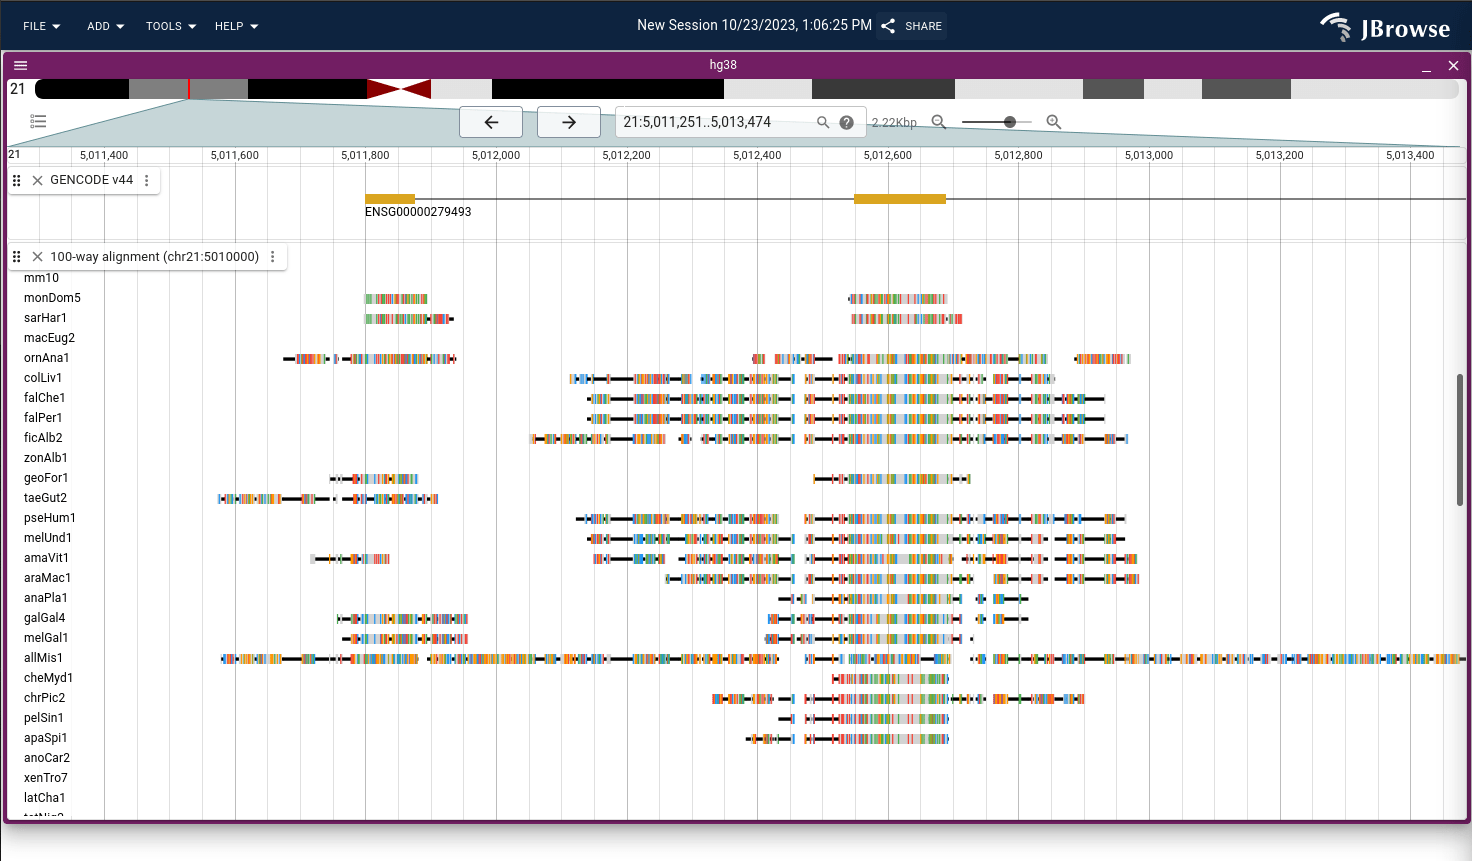
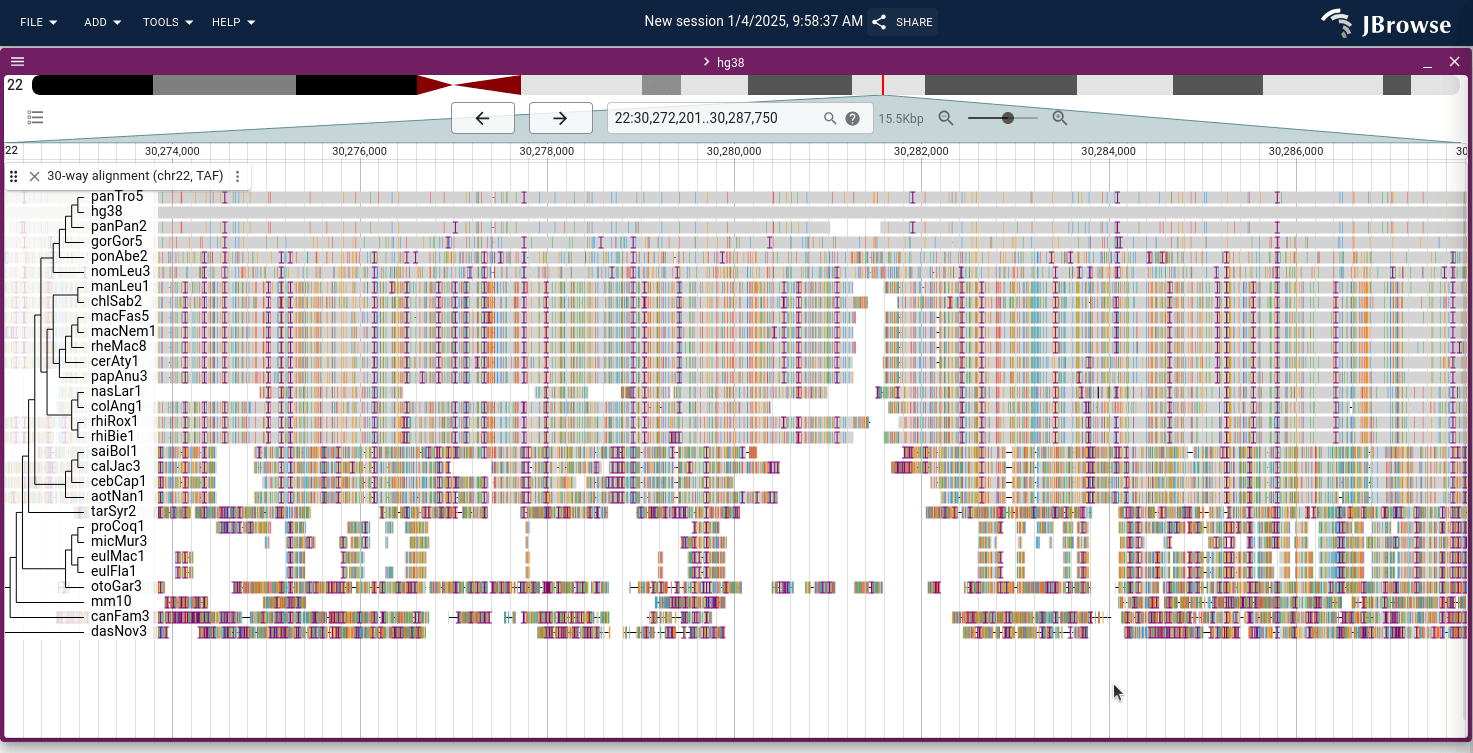
Add taf to the workflow

diff --git a/src/MafAddTrackWorkflow/AddTrackWorkflow.tsx b/src/MafAddTrackWorkflow/AddTrackWorkflow.tsx
@@ -36,15 +36,24 @@ const useStyles = makeStyles()(theme => ({
   },
 }))
 
+type AdapterTypeOptions =
+  | 'BigMafAdapter'
+  | 'MafTabixAdapter'
+  | 'BgzipTaffyAdapter'
+type IndexTypeOptions = 'TBI' | 'CSI'
+
 export default function MultiMAFWidget({ model }: { model: AddTrackModel }) {
   const { classes } = useStyles()
   const [samples, setSamples] = useState('')
   const [loc, setLoc] = useState<FileLocation>()
   const [indexLoc, setIndexLoc] = useState<FileLocation>()
+  const [nhLoc, setNhLoc] = useState<FileLocation>()
   const [error, setError] = useState<unknown>()
   const [trackName, setTrackName] = useState('MAF track')
-  const [fileTypeChoice, setFileTypeChoice] = useState('BigMafAdapter')
-  const [indexTypeChoice, setIndexTypeChoice] = useState('TBI')
+  const [fileTypeChoice, setFileTypeChoice] =
+    useState<AdapterTypeOptions>('BigMafAdapter')
+  const [indexTypeChoice, setIndexTypeChoice] =
+    useState<IndexTypeOptions>('TBI')
 
   const rootModel = getRoot<any>(model)
   return (
@@ -56,21 +65,19 @@ export default function MultiMAFWidget({ model }: { model: AddTrackModel }) {
           <RadioGroup
             value={fileTypeChoice}
             onChange={event => {
-              setFileTypeChoice(event.target.value)
+              setFileTypeChoice(event.target.value as AdapterTypeOptions)
             }}
           >
-            <FormControlLabel
-              value="BigMafAdapter"
-              control={<Radio />}
-              checked={fileTypeChoice === 'BigMafAdapter'}
-              label="bigMaf"
-            />
-            <FormControlLabel
-              value="MafTabixAdapter"
-              control={<Radio />}
-              checked={fileTypeChoice === 'MafTabixAdapter'}
-              label="mafTabix"
-            />
+            {['BigMafAdapter', 'MafTabixAdapter', 'BgzipTaffyAdapter'].map(
+              r => (
+                <FormControlLabel
+                  value={r}
+                  control={<Radio />}
+                  checked={fileTypeChoice === r}
+                  label={r}
+                />
+              ),
+            )}
           </RadioGroup>
         </FormControl>
         {fileTypeChoice === 'BigMafAdapter' ? (
@@ -82,62 +89,88 @@ export default function MultiMAFWidget({ model }: { model: AddTrackModel }) {
               setLoc(arg)
             }}
           />
-        ) : (
+        ) : fileTypeChoice === 'MafTabixAdapter' ? (
           <>
             <FormControl>
               <FormLabel>Index type</FormLabel>
               <RadioGroup
                 value={fileTypeChoice}
                 onChange={event => {
-                  setIndexTypeChoice(event.target.value)
+                  setIndexTypeChoice(event.target.value as IndexTypeOptions)
                 }}
               >
-                <FormControlLabel
-                  value="TBI"
-                  control={<Radio />}
-                  checked={indexTypeChoice === 'TBI'}
-                  label="TBI"
-                />
-                <FormControlLabel
-                  value="CSI"
-                  control={<Radio />}
-                  checked={indexTypeChoice === 'CSI'}
-                  label="CSI"
-                />
+                {['TBI', 'CSI'].map(r => (
+                  <FormControlLabel
+                    value={r}
+                    control={<Radio />}
+                    checked={fileTypeChoice === r}
+                    label={r}
+                  />
+                ))}
               </RadioGroup>
             </FormControl>
             <FileSelector
               location={loc}
               name="Path to MAF tabix"
+              rootModel={rootModel}
               setLocation={arg => {
                 setLoc(arg)
               }}
-              rootModel={rootModel}
             />
             <FileSelector
               location={indexLoc}
               name="Path to MAF tabix index"
+              rootModel={rootModel}
               setLocation={arg => {
                 setIndexLoc(arg)
               }}
+            />
+          </>
+        ) : (
+          <>
+            <FileSelector
+              location={loc}
+              name="Path to TAF.gz (Bgzipped TAF)"
               rootModel={rootModel}
+              setLocation={arg => {
+                setLoc(arg)
+              }}
+            />
+            <FileSelector
+              location={indexLoc}
+              name="Path to TAF.gz.tai (TAF index)"
+              rootModel={rootModel}
+              setLocation={arg => {
+                setIndexLoc(arg)
+              }}
             />
           </>
         )}
       </Paper>
-      <TextField
-        multiline
-        rows={10}
-        value={samples}
-        onChange={event => {
-          setSamples(event.target.value)
-        }}
-        placeholder={
-          'Enter sample names from the MAF file, one per line, or JSON formatted array of samples'
-        }
-        variant="outlined"
-        fullWidth
-      />
+      <div>
+        <FileSelector
+          location={nhLoc}
+          name="Path to newick tree (.nh)"
+          rootModel={rootModel}
+          setLocation={arg => {
+            setNhLoc(arg)
+          }}
+        />
+        <TextField
+          multiline
+          rows={10}
+          value={samples}
+          onChange={event => {
+            setSamples(event.target.value)
+          }}
+          helperText="Sample names (optional if .nh supplied, required if not)"
+          placeholder={
+            'Enter sample names from the MAF file, one per line, or JSON formatted array of samples'
+          }
+          variant="outlined"
+          fullWidth
+        />
+      </div>
 
       <TextField
         value={trackName}
@@ -173,19 +206,29 @@ export default function MultiMAFWidget({ model }: { model: AddTrackModel }) {
                 adapter:
                   fileTypeChoice === 'BigMafAdapter'
                     ? {
-                      type: fileTypeChoice,
-                      bigBedLocation: loc,
-                      samples: sampleNames,
-                    }
-                    : {
-                      type: fileTypeChoice,
-                      bedGzLocation: loc,
-                      index: {
-                        indexType: indexTypeChoice,
-                        location: indexLoc,
-                      },
-                      samples: sampleNames,
-                    },
+                        type: fileTypeChoice,
+                        bigBedLocation: loc,
+                        samples: sampleNames,
+                        nhLocation: nhLoc,
+                      }
+                    : fileTypeChoice === 'MafTabixAdapter'
+                      ? {
+                          type: fileTypeChoice,
+                          bedGzLocation: loc,
+                          nhLocation: nhLoc,
+                          index: {
+                            indexType: indexTypeChoice,
+                            location: indexLoc,
+                          },
+                          samples: sampleNames,
+                        }
+                      : {
+                          type: fileTypeChoice,
+                          tafGzLocation: loc,
+                          taiLocation: indexLoc,
+                          nhLocation: nhLoc,
+                          samples: sampleNames,
+                        },
               })
 
               model.view?.showTrack(trackId)

diff --git a/src/BigMafAdapter/configSchema.ts b/src/BigMafAdapter/configSchema.ts
@@ -27,6 +27,17 @@ const configSchema = ConfigurationSchema(
         locationType: 'UriLocation',
       },
     },
+    /**
+     * #slot
+     */
+    nhLocation: {
+      type: 'fileLocation',
+      description: 'newick tree',
+      defaultValue: {
+        uri: '/path/to/my.nh',
+        locationType: 'UriLocation',
+      },
+    },
   },
   { explicitlyTyped: true },
 )

diff --git a/README.md b/README.md
@@ -153,30 +153,24 @@ the case
 
 ## Prepare data
 
-This is the same as the jbrowse 1 mafviewer plugin (currently the similar to
-the). This plugin supports two formats
-
 1. BigMaf format, which can be created following UCSC guidelines
+   (https://genome.ucsc.edu/FAQ/FAQformat.html#format9.3)
 
 2. MAF tabix based format, based on a custom BED created via conversion tools in
-   this repo.
+   this repo (see maf2bed)
 
-The choice between the two is your convenience. BigMaf is a "standard" UCSC
-format, basically just a specialized BigBed, so it requires JBrowse 1.14.0 or
-newer for it's BigBed support. The custom BED format only requires JBrowse
-1.12.3 or newer, so therefore some slightly older JBrowse versions can support
-it.
+3. TAF format (new!). Currently only supports bgzip'd TAF. This is pioneered by
+   https://github.com/ComparativeGenomicsToolkit/taffy
 
-_Note: Both formats start with a MAF as input, and note that your MAF file
-should contain the species name and chromosome name e.g. hg38.chr1 in the
+_Note: All these formats generally start with a MAF as input. Note that your MAF
+file should contain the species name and chromosome name e.g. hg38.chr1 in the
 sequence identifiers._
 
-### Preparing BigMaf
+### Option 1. Preparing BigMaf
 
 Follow instructions from https://genome.ucsc.edu/FAQ/FAQformat.html#format9.3
-and set the storeType of your track as MAFViewer/Store/SeqFeature/BigMaf
 
-### Preparing the tabix BED format
+### Option 2. Preparing MAF tabix
 
 Start by converting the MAF into a pseudo-BED format using the maf2bed tool
 
@@ -191,7 +185,8 @@ The second argument to maf2bed is the genome version e.g. hg38 used for the main
 species in the MAF (if your MAF comes from a pipeline like Ensembl or UCSC, the
 identifiers in the MAF file will say something like hg38.chr1, therefore, the
 argument to maf2bed should just be hg38 to remove hg38 part of the identifier.
-if your MAF file does not include the species name as part of the identifier,
+
+If your MAF file does not include the species name as part of the identifier,
 you should add the species into them the those scaffold/chromosome e.g. create
 hg38.chr1 if it was just chr1 before)
 
@@ -200,7 +195,19 @@ If all is well, your BED file should have 6 columns, with
 separated between each species by `;` and each field in the alignment is
 separated by `:`.
 
-### Footnote
+Note: If you can't use the `cargo install maf2bed` binary, there is a
+`bin/maf2bed.pl` perl version of it in this repo
 
-If you can't use the `cargo install maf2bed` binary, there is a `bin/maf2bed.pl`
-perl version of it in this repo
+### Option 3. Preparing TAF
+
+Follow steps from https://github.com/ComparativeGenomicsToolkit/taffy
+
+```
+taffy view -i chr22.maf -o chr22.taf
+bgzip chr22.taf
+taffy index -i chr22.taf.gz
+```
+
+The above workflow requires that taffy is built with "htslib support"
+
+Note that the TAF support is beta, let me know if you run into any issues
